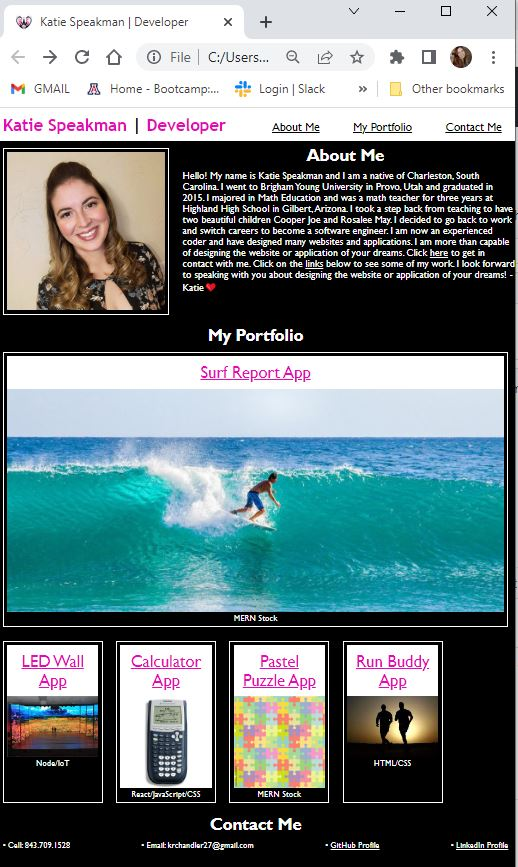
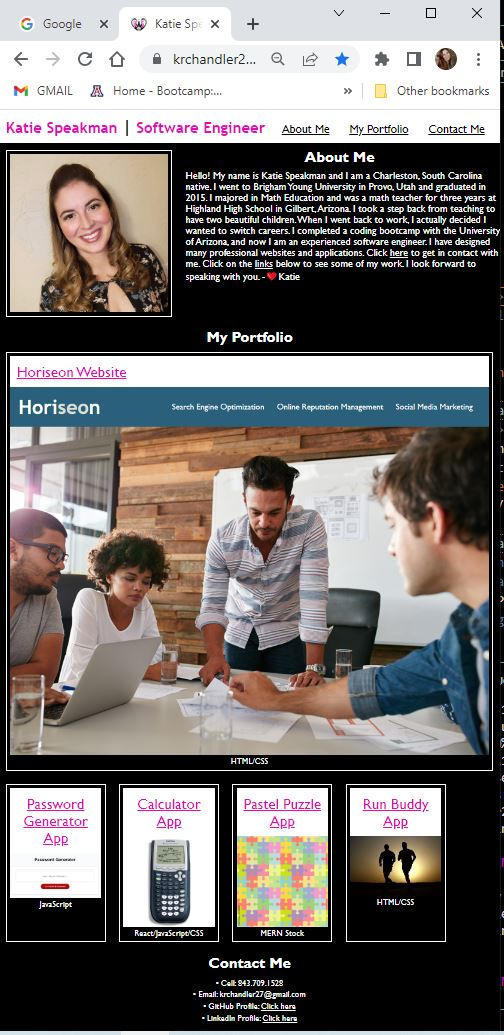
updated readme and images.

diff --git a/index.html b/index.html
@@ -36,7 +36,8 @@
                 at Highland High School in Gilbert, Arizona. I took a step back from
                 teaching to have two beautiful
                 children. When I went back to work, I actually decided I wanted to switch careers. I completed a coding
-                bootcamp with the University of Arizona, and now I am an experienced software engineer. I have designed many professional websites and
+                bootcamp with the University of Arizona, and now I am an experienced software engineer. I have designed
+                many professional websites and
                 applications. Click <a href="#contact-me">here</a> to get in contact with me. Click on the <a
                     href="#my-portfolio">links</a> below to see some of my work. I look
                 forward to speaking with you.
@@ -47,22 +48,27 @@
     </section>
 
     <h2 class="header2" id="my-portfolio">My Portfolio</h2>
+
     <section class="card">
-        <header><a href="https://krchandler27.github.io/code-refactor/"> Horiseon Website </a></header>
+        <header id= "horiseon"><a href="https://krchandler27.github.io/code-refactor/"> Horiseon Website </a></header>
         <img src="./assets/images/Horiseon.png" alt="Horiseon business website homepage." />
         <p>HTML/CSS</p>
     </section>
+
     <section class="my-portfolio">
         <section class="card">
             <header><a href="https://krchandler27.github.io/Password-Generator/"> Password Generator App </a></header>
-            <img src="./assets/images/password-generator.JPG" alt="Simple web application for generating a secure password." />
+            <img src="./assets/images/password-generator.JPG"
+                alt="Simple web application for generating a secure password." />
             <p>JavaScript</p>
         </section>
+
         <section class="card">
             <header><a href="TBD"> Calculator App </a></header>
             <img src="./assets/images/calculator.jfif" alt="TI-84 calculator running an application." />
             <p>React/JavaScript/CSS</p>
         </section>
+
         <section class="card">
             <header><a href="TBD"> Pastel Puzzle App</a> </header>
             <img src="./assets/images/pastel-puzzles.jpg" alt="Pastel Puzzles" />
@@ -88,7 +94,7 @@
         </p>
         <p>
             &#x2022; LinkedIn Profile: <a href="https://www.linkedin.com/in/katie-speakman-670b82252/"> Click here
-                </a>
+            </a>
         </p>
     </footer>
 </body>

diff --git a/assets/css/style.css b/assets/css/style.css
@@ -101,6 +101,11 @@ header nav ul li {
     margin: 20px;
 }
 
+#horiseon {
+text-align: center;
+justify-content: center;
+}
+
 .card header {
     font-size: 45px;
     font-family: 'Gill Sans', 'Gill Sans MT', Calibri, 'Trebuchet MS', sans-serif;

diff --git a/README.md b/README.md
@@ -4,4 +4,4 @@
 
 Deployed Webpage: https://krchandler27.github.io/portfolio-site/
 
-![webpage](https://user-images.githubusercontent.com/116527506/202934023-32456e18-0424-47ce-ba08-541a10190c1d.JPG)
+![webpage](https://user-images.githubusercontent.com/116527506/204732566-3075e0b1-f0bb-45f4-8b4e-daf0741b3158.JPG)
